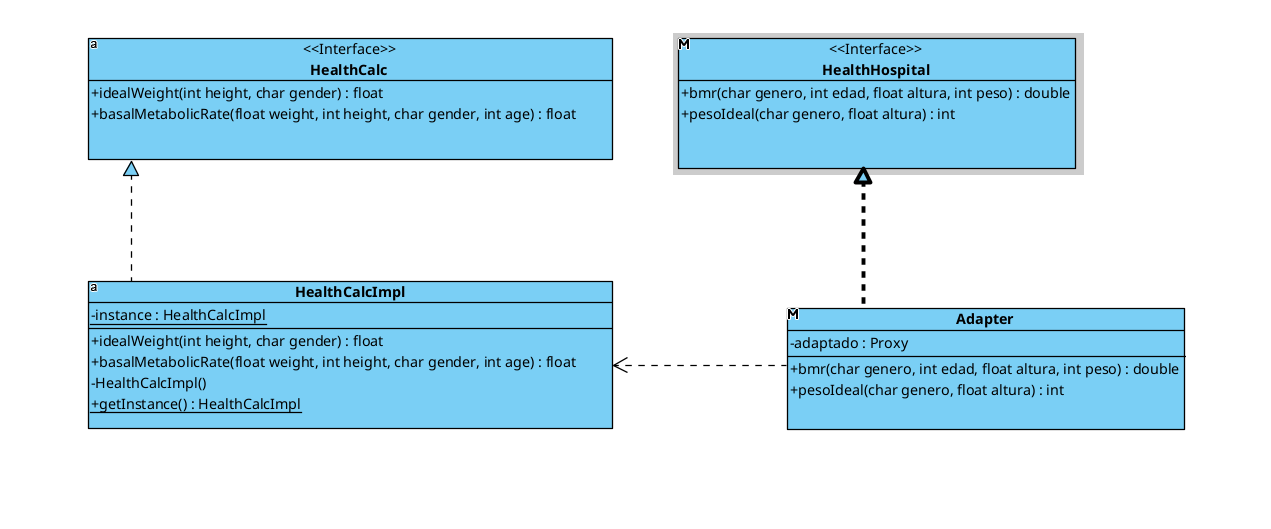
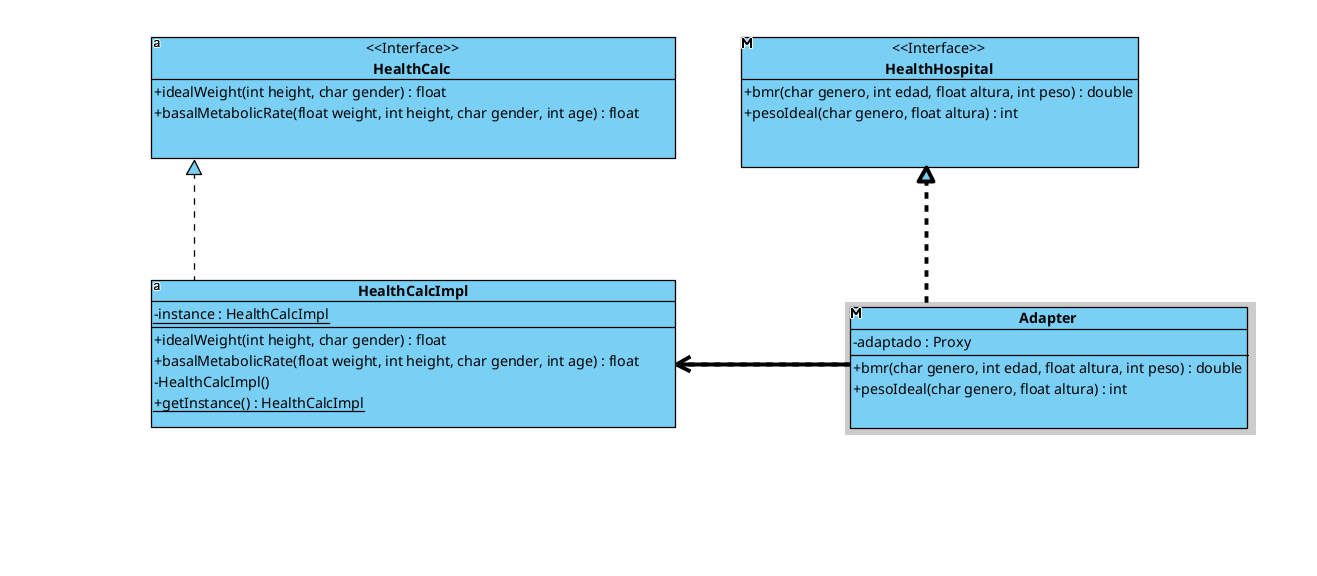
imagenes corregidas, lineas disscontinuas de las asociaciones ahora continua

Changed region(s): [[0.0614, 0.0605, 0.9512, 0.8166]]

diff --git a/README.md b/README.md
@@ -1,6 +1,9 @@
 # isa2024-healtcalc
 Health calculator
 ***
+
+# Práctica 7: Refactorings
+
 # Práctica 6: Patrones de diseño
 En esta practica, hemos implementado patrones de diseño para realizar tareas especificas como adaptar nuestra calculadora a las especificaciones de un hopital, llevar un registro y sacar estadisticas de los datos con proxy o traducir nuestra calculadora a distintos idiomas y sistemas metricos con decoradores.
 
